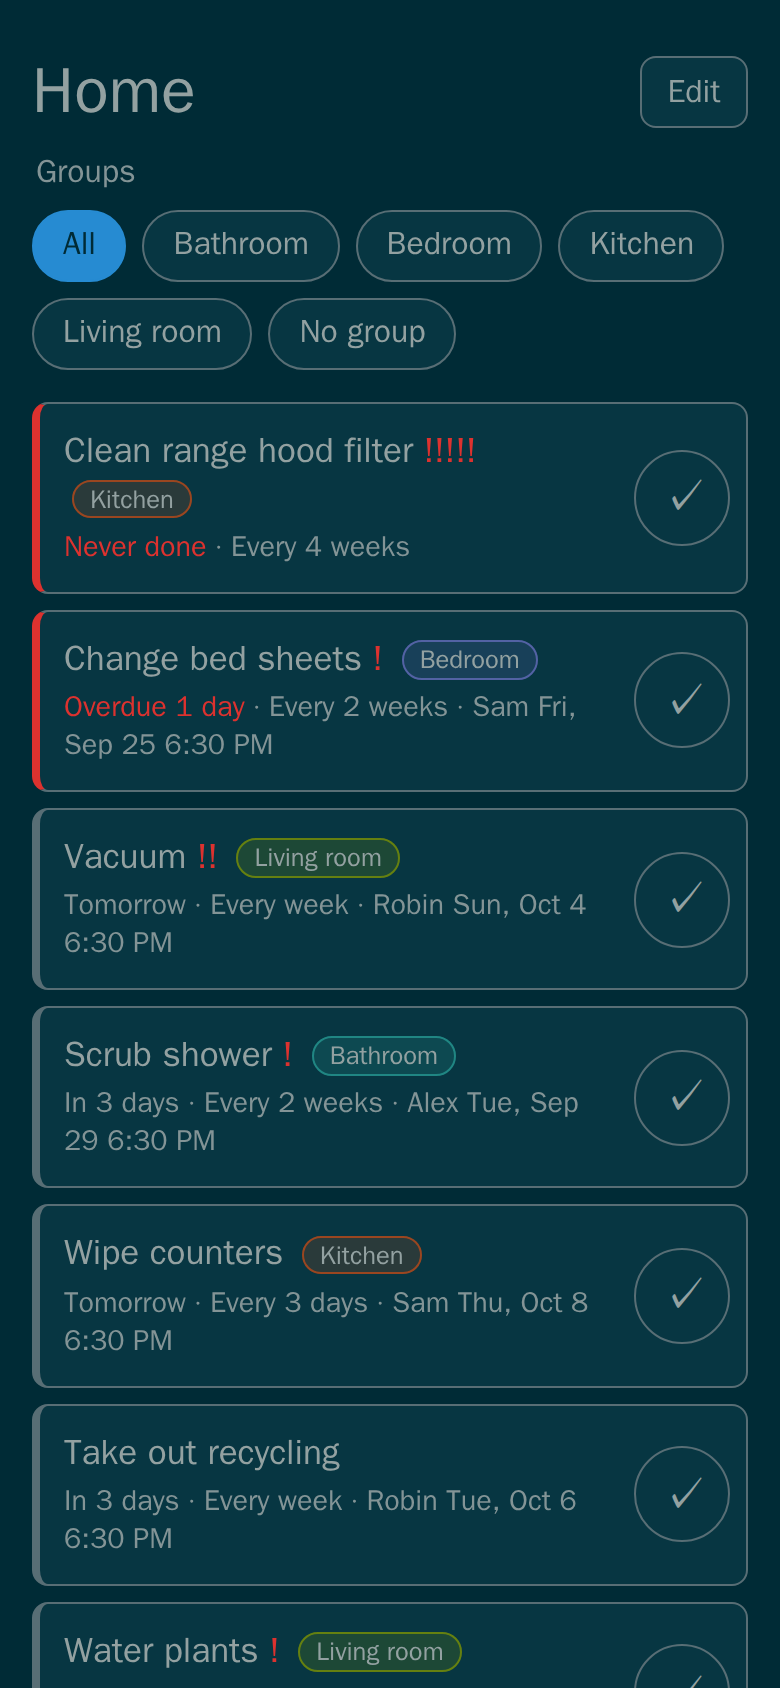
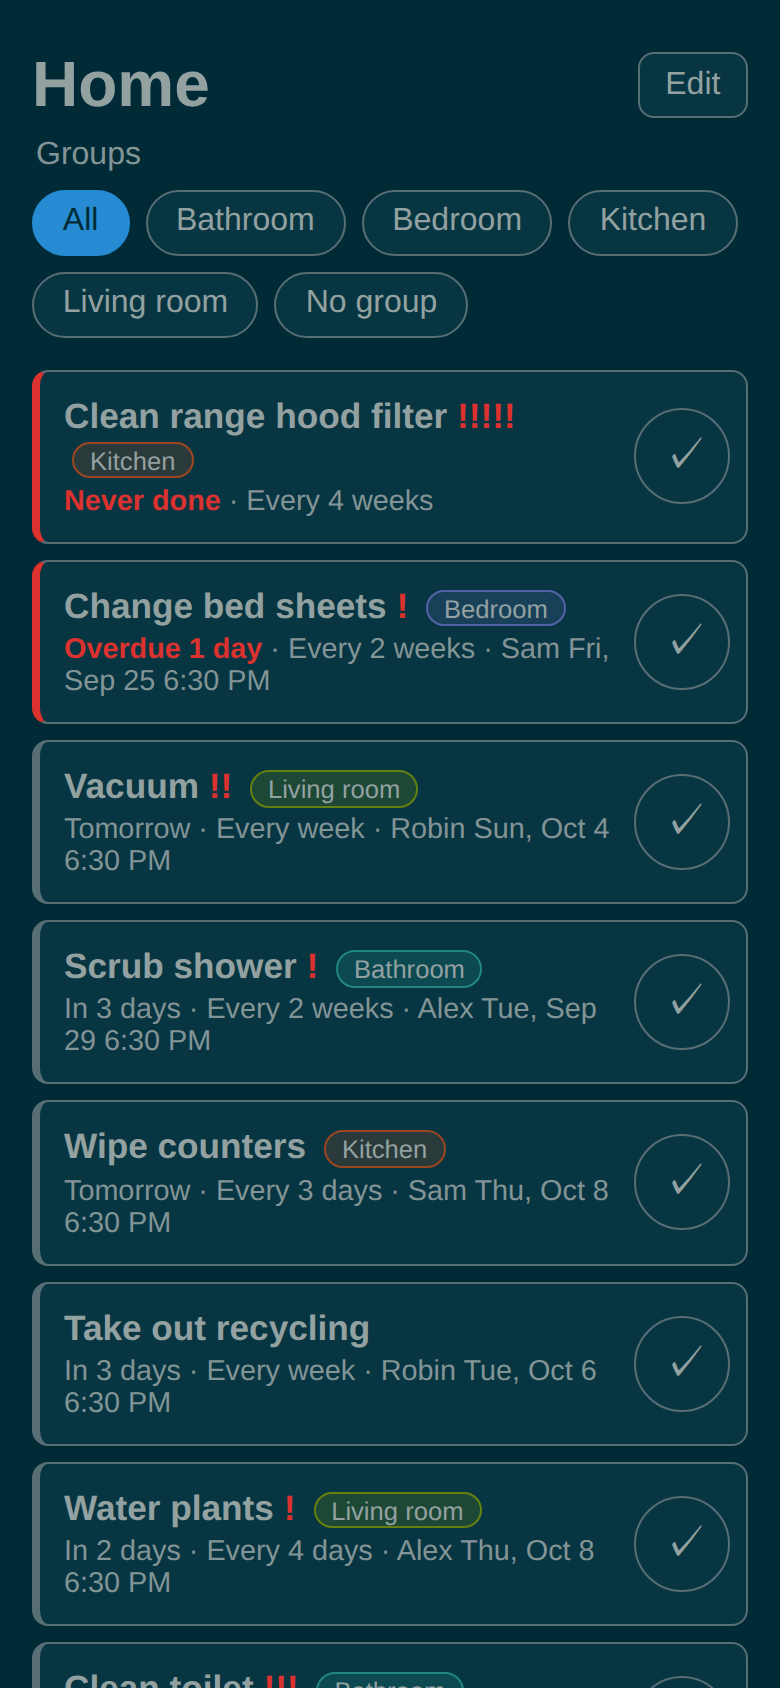
chore: use liberation sans for screenshots

diff --git a/web/e2e/screenshots.spec.ts b/web/e2e/screenshots.spec.ts
@@ -8,6 +8,9 @@ test.beforeEach(async ({ page }) => {
   await page.getByLabel('Password').fill('demo');
   await page.getByRole('button', { name: 'Log in' }).click();
   await expect(page.getByText('Clean range hood filter')).toBeVisible();
+  // The container has no proper UI font, so `system-ui` falls back to a Chinese one. Liberation
+  // Sans ships with the image and looks like a typical system font.
+  await page.addStyleTag({ content: 'body { font-family: "Liberation Sans", sans-serif; }' });
 });
 
 for (const colorScheme of ['light', 'dark'] as const) {
